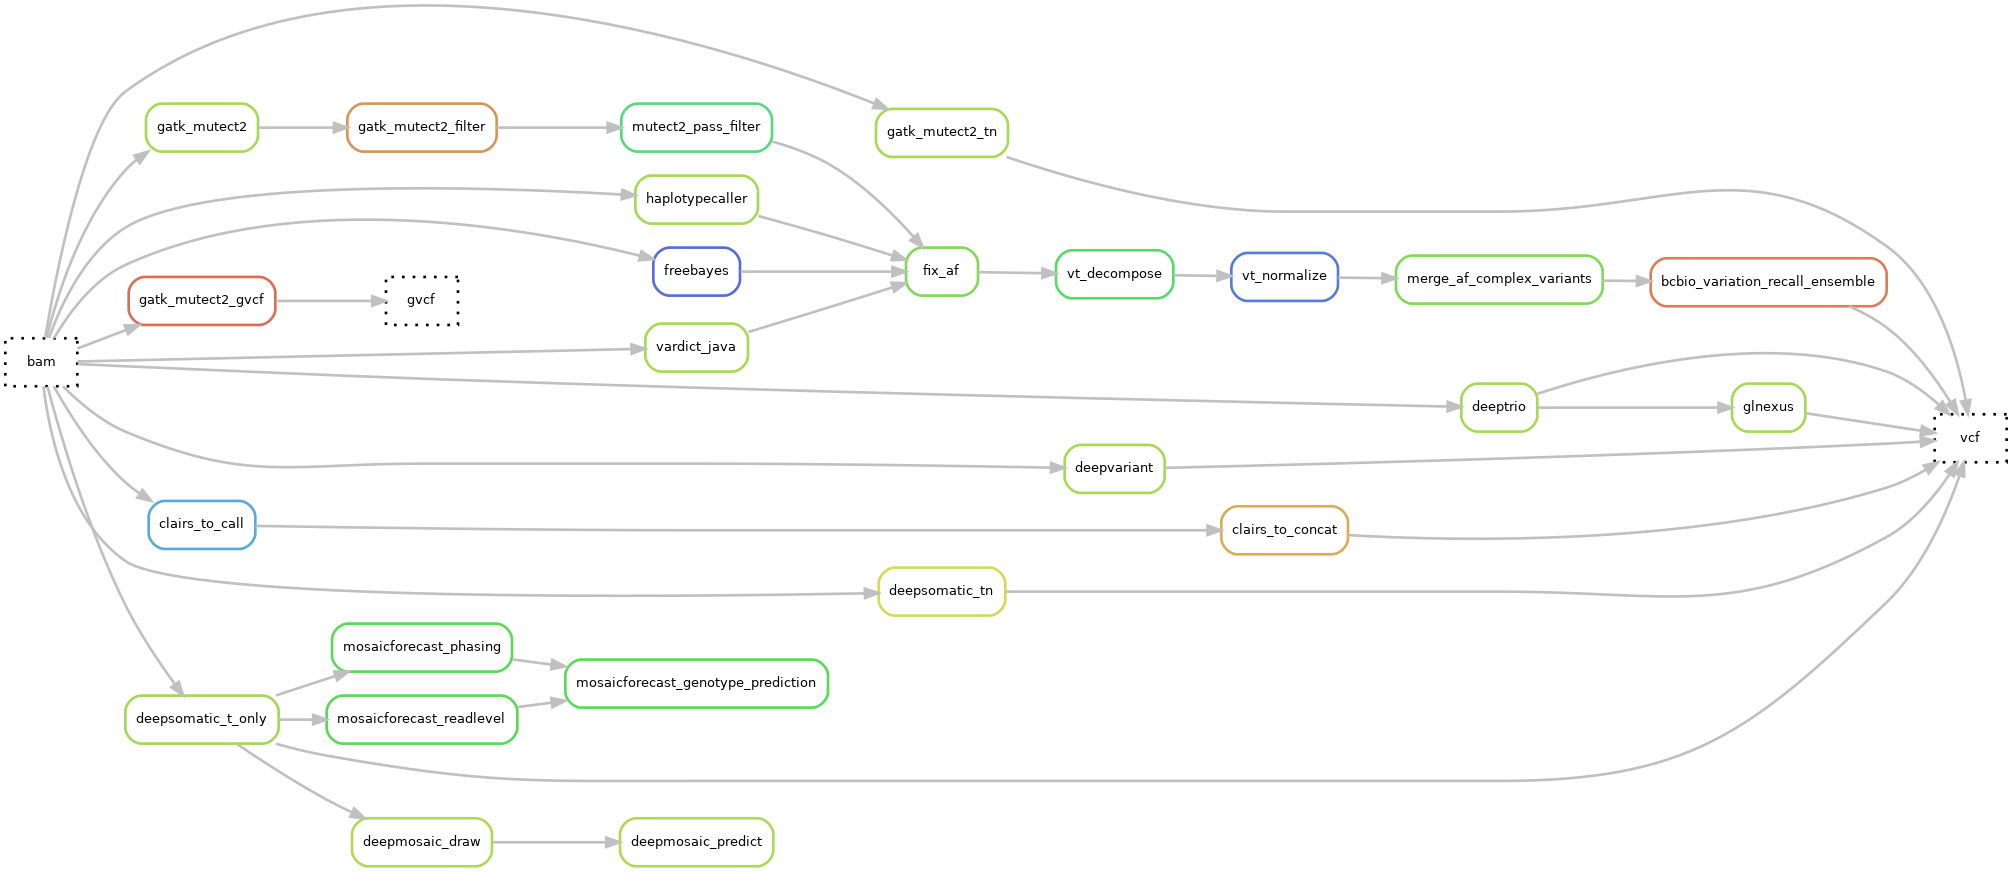
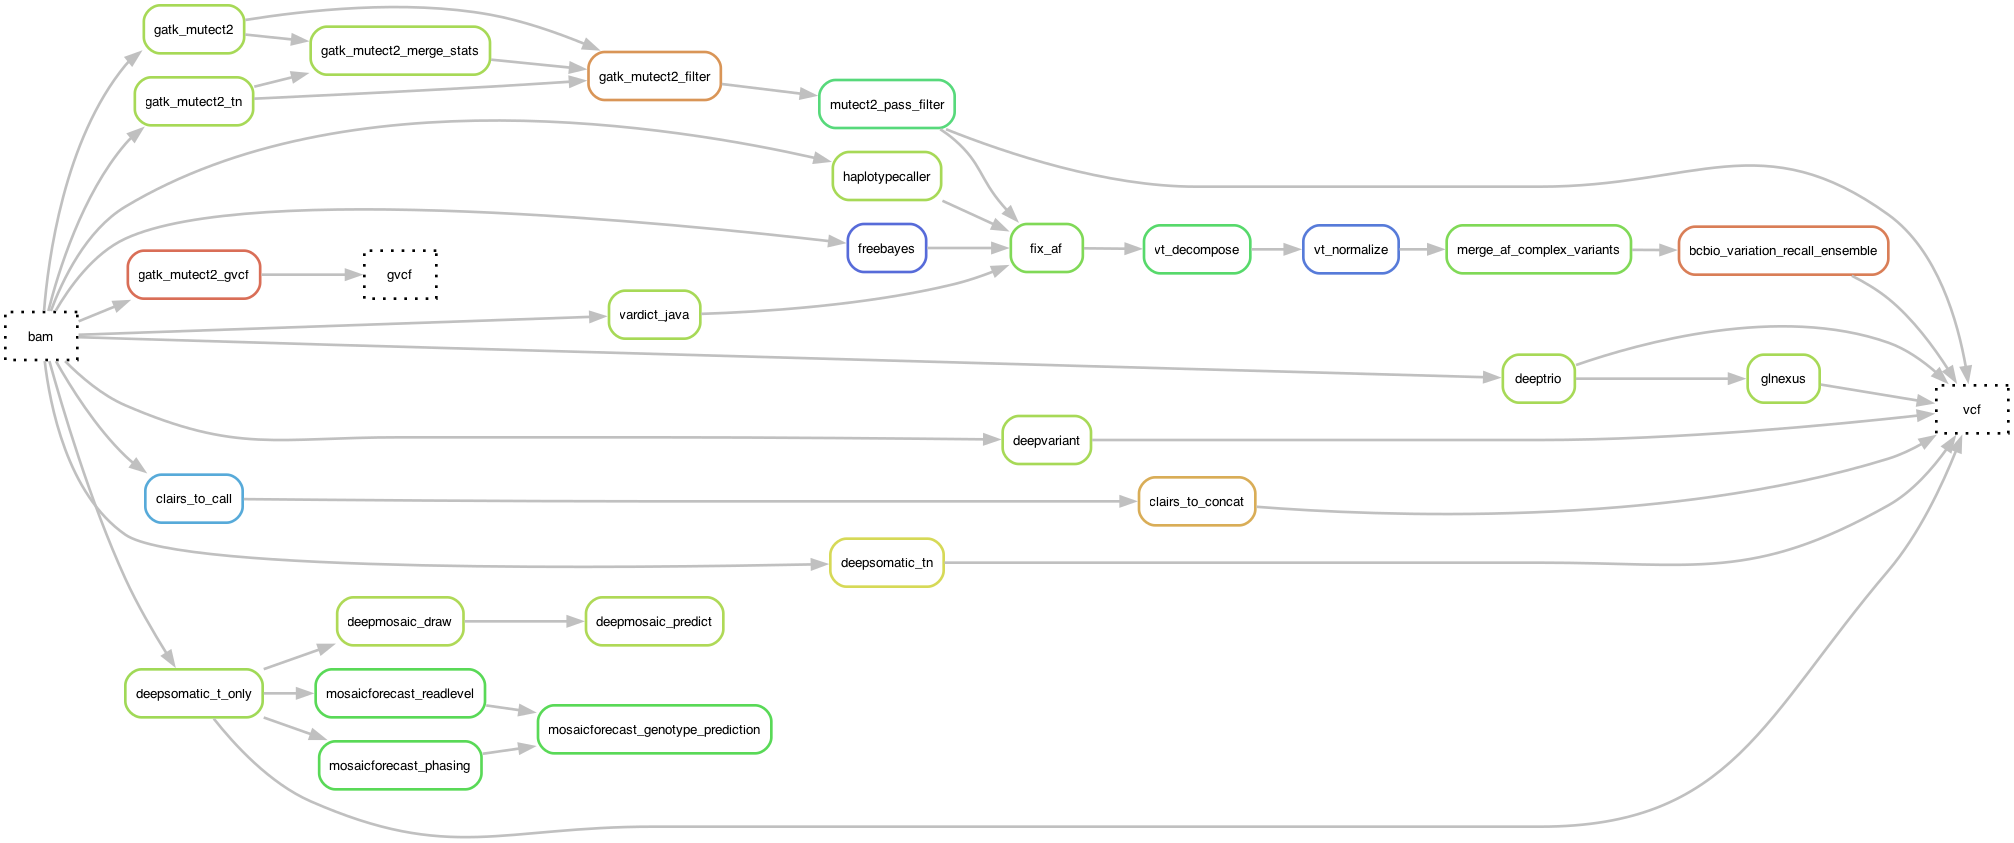
feat: connect paired calling to filter flow

diff --git a/docs/softwares.md b/docs/softwares.md
@@ -510,6 +510,7 @@ Mutect2 is used to generate a genome vcf file containing allele information for 
 
 ## [gatk_mutect2_filter](https://gatk.broadinstitute.org/hc/en-us/articles/13832710384155-Mutect2)
 Step 3 of 4 of Mutect2 variant calling filtering the called variants using the merged statistics file.
+The rule supports both `gatk_mutect2` and `gatk_mutect2_tn` through the `mutect_caller` wildcard, using the same filtering settings.
 
 ### :snake: Rule
 
@@ -533,6 +534,7 @@ Step 3 of 4 of Mutect2 variant calling filtering the called variants using the m
 
 ## [gatk_mutect2_merge_stats](https://gatk.broadinstitute.org/hc/en-us/articles/13832710384155-Mutect2)
 Step 2 of 4 of Mutect2 variant calling merging the statistics file.
+The rule supports both `gatk_mutect2` and `gatk_mutect2_tn` through the `mutect_caller` wildcard.
 
 ### :snake: Rule
 
@@ -555,8 +557,8 @@ Step 2 of 4 of Mutect2 variant calling merging the statistics file.
 ---
 
 ## [gatk_mutect2_tn](https://gatk.broadinstitute.org/hc/en-us/articles/13832710384155-Mutect2)
-Mutect2 is used for paired tumor-normal variant calling, generating chromosome split unfiltered calls, variant statistic files, realigned bam files and F1R2 counts.
-By default, `{sample}` is a shared pair ID, and the BAM read-group `SM` values are `{sample}_T` and `{sample}_N`. Pipelines with separately named normals can override the normal BAM and sample name.
+Step 1 of 4 of paired tumor-normal Mutect2 variant calling generating chromosome split unfiltered calls, variant statistic files, realigned bam files and F1R2 counts.
+Tumor and normal share `{sample}`, with BAM read-group `SM` values `{sample}_T` and `{sample}_N`.
 
 ### :snake: Rule
 

diff --git a/README.md b/README.md
@@ -155,6 +155,7 @@ The following output files should be targeted via another rule:
 | `snv_indels/bcbio_variation_recall_ensemble/{sample}_{type}.ensembled.vcf.gz` | combined `.vcf` generated by ensemble |
 | `snv_indels/{caller}/{sample}_{type}.normalized.sorted.vcf.gz` | sorted `.vcf.gz` for each caller |
 | `snv_indels/gatk_mutect2_gvcf/{sample}_{type}.merged.g.vcf.gz` | genomic `.vcf` |
+| `snv_indels/gatk_mutect2_tn/{sample}_T.merged.vcf.gz` | merged and filtered tumor-normal Mutect2 calls |
 | `snv_indels/deepvariant/{sample}_{type}.merged.vcf.gz` | deepvariant `.vcf.gz` |
 | `snv_indels/deepvariant/{sample}_{type}.merged.g.vcf.gz` | genomic `.g.vcf.gz` for deepvariant |
 | `snv_indels/glnexus/{sample}_{type}.vcf.gz` | trio `.vcf.gz` with proband sample id generated by glnexus from deeptrio genomic `.g.vcf.gz` |

diff --git a/docs/intro.md b/docs/intro.md
@@ -83,6 +83,7 @@ Heterogeneity in the VAF-related fields and in the way of computing the VAF are 
 * `snv_indels/deepvariant/{sample}_{type}.merged.sorted.vcf.gz`
 * `snv_indels/freebayes/{sample}_{type}.merged.sorted.vcf.gz`
 * `snv_indels/gatk_mutect2/{sample}_{type}.merged.sorted.vcf.gz`
+* `snv_indels/gatk_mutect2_tn/{sample}_T.merged.vcf.gz` (merged and filtered tumor-normal calls)
 * `snv_indels/glnexus/{sample}_{type}.vcf.gz`
 * `snv_indels/haplotypecaller/{sample}_{type}.merged.sorted.vcf.gz`
 * `snv_indels/vardict/{sample}_{type}.merged.sorted.vcf.gz`
